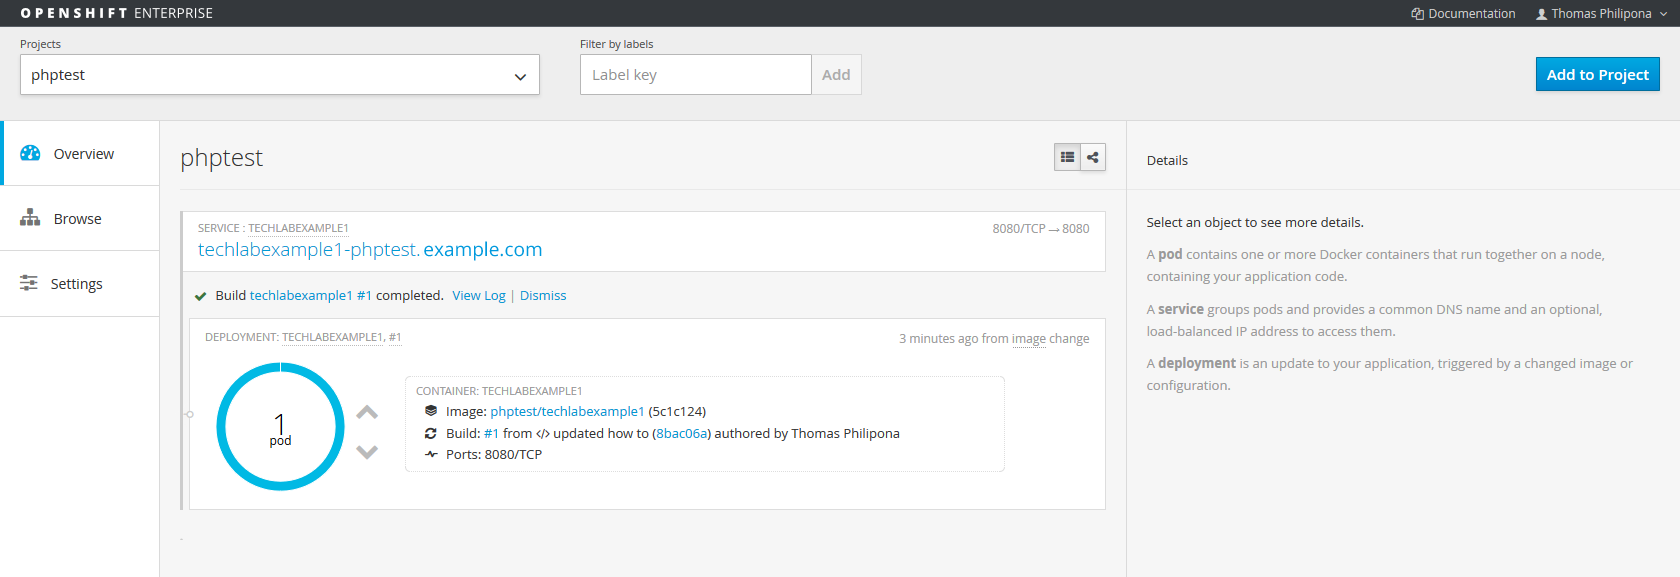
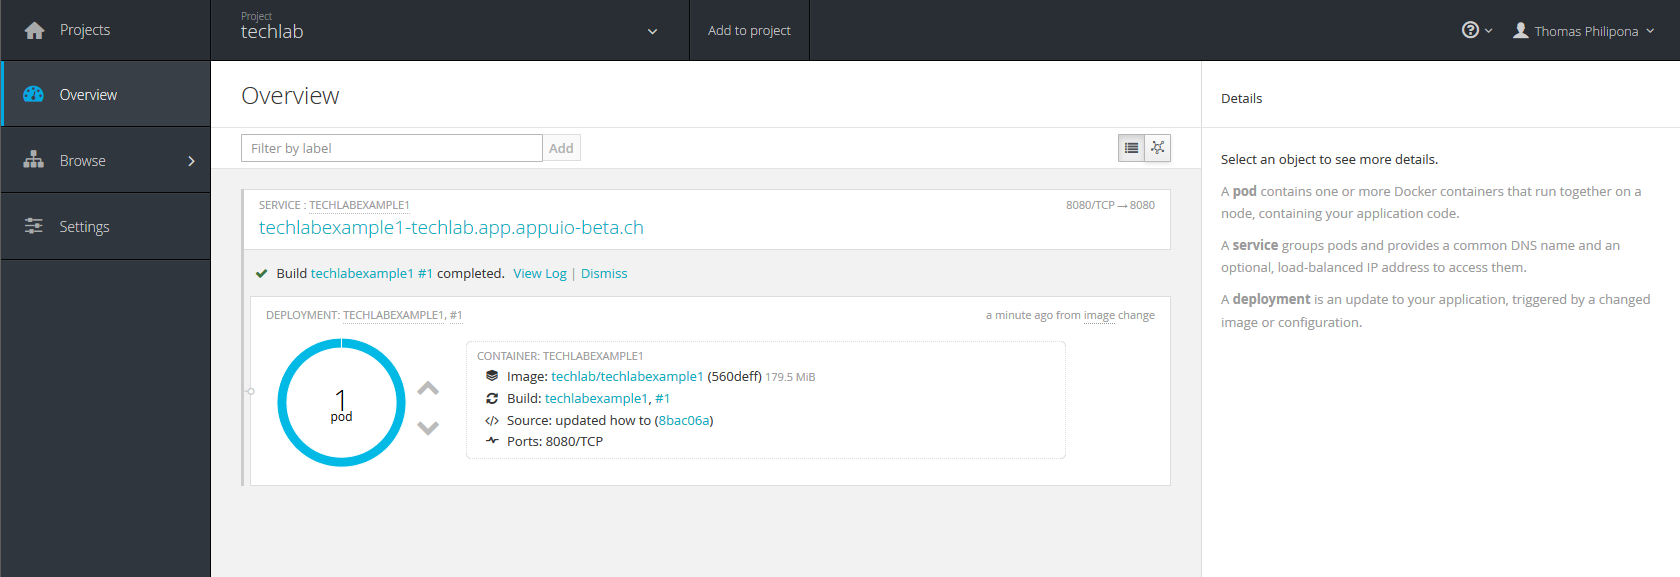
ugraded lab 1 - 3 to openShift v 3.2

diff --git a/README.md b/README.md
@@ -1,6 +1,6 @@
 # APPUiO - OpenShift V3 Techlab Dokumentation
 
-Dieses Techlab basiert auf OpenShift V3.1.
+Dieses Techlab basiert auf OpenShift V3.2.
 
 
 ## Inhalte
@@ -28,7 +28,7 @@ Dieses Techlab basiert auf OpenShift V3.1.
 
 ## Weiterführende Dokumentation
 
-- [OpenShift V3.1 docs](https://docs.openshift.com/enterprise/3.1/welcome/index.html)
+- [OpenShift V3.2 docs](https://docs.openshift.com/enterprise/3.2/welcome/index.html)
 - [APPUiO docs](http://docs.appuio.ch)
 
 ### APPUiO Examples
@@ -38,5 +38,5 @@ Dieses Techlab basiert auf OpenShift V3.1.
 - [APPUiO Cron Job Example](https://github.com/appuio/example-cron-traditional)
 
 ### OpenShift Examples
-- [OpenShift Creating New Applications Docs](https://docs.openshift.com/enterprise/3.1/dev_guide/new_app.html)
+- [OpenShift Creating New Applications Docs](https://docs.openshift.com/enterprise/3.2/dev_guide/new_app.html)
 

diff --git a/labs/01_quicktour.md b/labs/01_quicktour.md
@@ -4,7 +4,7 @@ In diesem Lab werden die Grundkonzepte von OpenShift vorgestellt. Des Weiteren z
 
 Die hier aufgeführten Begriffe und Ressourcen sind ein Auszug aus der offiziellen OpenShift Dokumentation, weiterführende Informationen zu OpenShift können hier entnommen werden: 
 
-> https://docs.openshift.com/enterprise/3.1/architecture/index.html 
+> https://docs.openshift.com/enterprise/3.2/architecture/index.html 
 
 
 ## Grundkonzepte

diff --git a/labs/03_first_steps.md b/labs/03_first_steps.md
@@ -89,8 +89,8 @@ $ oc project [projectname]
 
 **Tipp:** Mit den folgenden Befehlen kann das obere Beispiel aus der Kommandozeile erstellt werden:
 ```
-$ oc new-app https://github.com/appuio/example-php-sti-helloworld.git
-$ oc expose svc example-php-sti-hellowor
+$ oc new-app https://github.com/appuio/example-php-sti-helloworld.git --name=appuio-php-sti-example
+$ oc expose svc appuio-php-sti-example
 ```
 
 ---

diff --git a/labs/02_cli.md b/labs/02_cli.md
@@ -80,8 +80,8 @@ $ oc version
 ```
 Der folgende Output sollte angezeigt werden:
 ```
-oc v3.1.1.6-33-g81eabcc
-kubernetes v1.1.0-origin-1107-g4c8e6f4
+oc v3.2.0.46-1-g3fab54d
+kubernetes v1.2.0-36-g4a3f9c5
 ```
 
 Ist dies nicht der Fall, ist möglicherweise die PATH Variable nicht korrekt gesetzt. 
